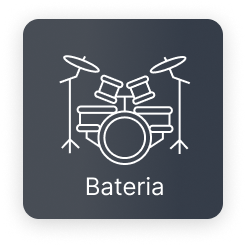
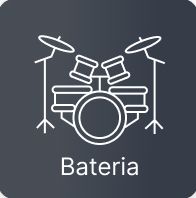
att responsa e bg

diff --git a/src/components/aulas/Aulas.style.ts b/src/components/aulas/Aulas.style.ts
@@ -2,24 +2,30 @@ import styled from "styled-components";
 // import background from '../../assets/images/aulas/background.jpg';
 
 export const LightBG = styled.div`
-  /* background: #2a3341;
-  background-size: cover; */
+background-color: #222b35;
+  /* background: #2a3341; */
+  background-size: cover;
   padding-top: 4px;
   padding-bottom: 4px;
-  display: block;
-  height: 45vh;
+  display: flex;
+  width: 100%;
+  height: 100%;
   flex-wrap: wrap;
-  @media only screen and (max-width: 1230px) {
+  @media only screen and (max-width: 1000px) {
     height: 95vh;
+    width: 100%;
   }
   @media only screen and (max-width: 600px) {
     height: 80vh;
+    width: 100%;
   }
   @media only screen and (max-width: 390px) {
     height: 105vh;
+    width: 100%;
   }
   @media only screen and (max-width: 258px) {
     height: 155vh;
+    width: 100%;
   }
 `;
 
@@ -28,6 +34,8 @@ export const AulasC = styled.div`
   width: 100%;
   padding: 0px;
   margin: 0px;
+  align-items: center;
+  text-align: center;
 
   h3 {
     font-family: "Roboto";
@@ -41,23 +49,37 @@ export const AulasC = styled.div`
   }
 
   img {
-    margin: 0px;
-    padding: 0px;
+    margin: 10px;
+    padding: 10px;
     /* display: flex; */
     align-items: center;
     height: 220px;
     width: 220px;
-    @media only screen and (max-width: 750px) {
-      height: 200px;
-      width: 200px;
+    border-radius: 50px;
+    :hover {
+background: #03e9f4;
+color: #fff;
+border-radius: 50px;
+box-shadow: 0 0 1px #03e9f4,
+
+            0 0 5px #03e9f4,
+
+            0 0 10px #03e9f4,
+
+            0 0 20px #03e9f4;
+}
+
+    @media only screen and (max-width: 1200px) {
+      height: 180px;
+      width: 180px;
     }
     @media only screen and (max-width: 600px) {
       height: 150px;
       width: 150px;
     }
-    @media only screen and (max-width: 450px) {
-      height: 130px;
-      width: 130px;
+    @media only screen and (max-width: 470px) {
+      height: 110px;
+      width: 110px;
     }
   }
 
@@ -71,23 +93,32 @@ export const AulasC = styled.div`
     flex-wrap: wrap;
   }
  
-  
+  .listas {
+    width: 100%;
+    height: 100%;
+    /* justify-content: space-between;
+    text-align: center;
+    align-content: center;
+    display: flex;
+    padding: 0px;
+    margin: 0px; */
+  }
 
   .listas li {
     width: 220px;
     height: 220px;
     /* border: 1px solid #6c5ece; */
-    @media only screen and (max-width: 730px) {
-      height: 200px;
-      width: 200px;
+    @media only screen and (max-width: 1200px) {
+      height: 180px;
+      width: 180px;
     }
     @media only screen and (max-width: 600px) {
       height: 150px;
       width: 150px;
     }
-    @media only screen and (max-width: 450px) {
-      height: 130px;
-      width: 130px;
+    @media only screen and (max-width: 470px) {
+      height: 110px;
+      width: 110px;
     }
   }
 `;

diff --git a/src/components/listaOrdenada/listaOrdenada.style.ts b/src/components/listaOrdenada/listaOrdenada.style.ts
@@ -2,7 +2,7 @@ import styled from "styled-components";
 import background from "../../assets/images/aulas/backgound.jpeg";
 
 export const Container = styled.div`
-  background-color: #222b35;
+  /* background-color: #222b35; */
   margin-top: 6rem;
   padding-bottom: 2rem;
   @media only screen and (max-width: 350px){
